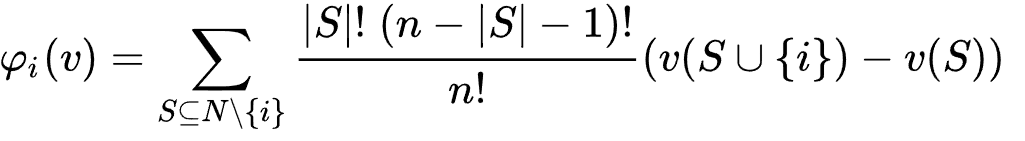
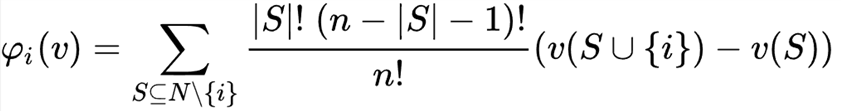
update shap doc

diff --git a/doc/federatedml_component/shap.md b/doc/federatedml_component/shap.md
@@ -32,7 +32,8 @@ The Shapley value is a game theory concept that involves fairly distributing gai
  describes the total expected sum of payoffs the members of *S* can obtain by cooperation. Then, the gain a player
  can get in this coalition game can be computed as:
  
-![Figure 2: shapely](../images/shapely_value.png =1300*130)
+
+![Figure 2: shapely](../images/shapely_value.png)
  
 By enumerating all possible subsets we are able to compute the gains of all participated players.
 
